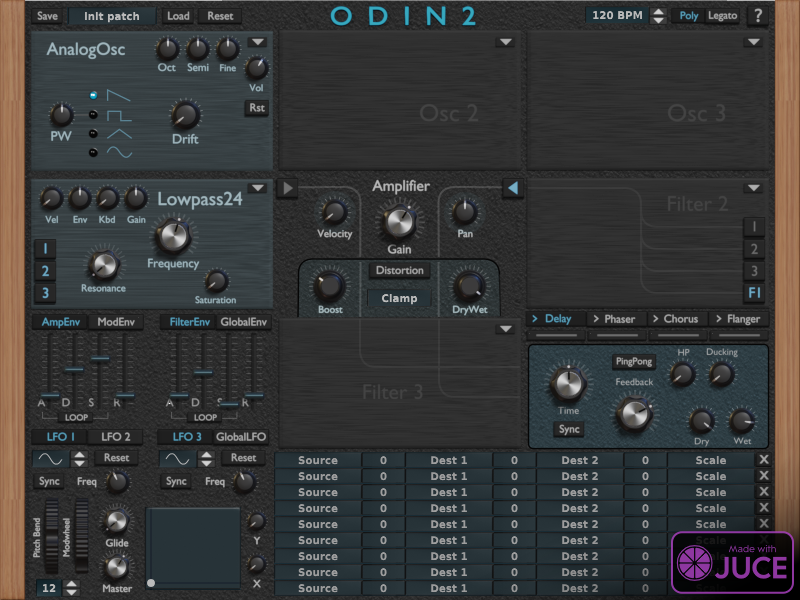
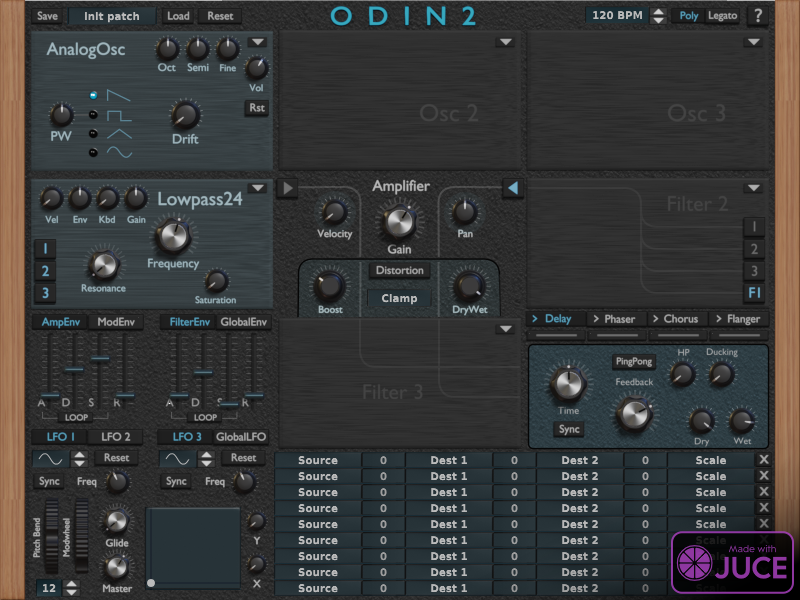
worked over some colors

diff --git a/Source/ModMatrixComponent.cpp b/Source/ModMatrixComponent.cpp
@@ -421,25 +421,18 @@ ModMatrixComponent::ModMatrixComponent(AudioProcessorValueTreeState &vts)
   m_amount_3[N_ROWS - 1].setImage(glas_small_down);
   m_scale[N_ROWS - 1].setImage(glas_right_down);
   juce::Colour modmatrix_color = STANDARD_DISPLAY_COLOR;
-  // juce::Colour modmatrix_color_bar(90, 150, 180);
 
   juce::Colour modmatrix_color_bar(60, 130, 160);
   juce::Colour modmatrix_color_bar_negative(230, 80, 110);
+  juce::Colour modmatrix_font_selected_color = Colour(126, 182, 206);
 
   m_color = modmatrix_color;
 
   for (int i = 0; i < N_ROWS; ++i) {
-    // m_amount_1[i].setParameterId("amount_1_row_" + std::to_string(i));
-    // m_amount_2[i].setParameterId("amount_2_row_" + std::to_string(i));
-    // m_amount_3[i].setParameterId("amount_3_row_" + std::to_string(i));
-    // m_value_tree.addParameterListener("amount_1_row_" + std::to_string(i),
-    //                                   &(m_amount_1[i]));
-    // m_value_tree.addParameterListener("amount_2_row_" + std::to_string(i),
-    //                                   &(m_amount_2[i]));
-    // m_value_tree.addParameterListener("amount_3_row_" + std::to_string(i),
-    //                                   &(m_amount_3[i]));
-    //DBG("POINTER TO COMPONENT");
-    //DBG((long)&(m_amount_2[i]));
+    m_source[i].setFontColor(modmatrix_font_selected_color);
+    m_dest_1[i].setFontColor(modmatrix_font_selected_color);
+    m_dest_2[i].setFontColor(modmatrix_font_selected_color);
+    m_scale[i].setFontColor(modmatrix_font_selected_color);
 
     m_source[i].setTooltip("Set the mod source");
     m_amount_1[i].setTooltip("Set the mod amount for the first destination");
@@ -463,6 +456,7 @@ ModMatrixComponent::ModMatrixComponent(AudioProcessorValueTreeState &vts)
     m_source[i].setSelectedId(1, dontSendNotification);
     m_source[i].setColor(modmatrix_color);
     m_source[i].setGreyFirstElement(true);
+    m_source[i].setGreyColor(juce::Colours::white);
     addAndMakeVisible(m_source[i]);
 
     m_amount_1[i].setColor(modmatrix_color);
@@ -479,6 +473,7 @@ ModMatrixComponent::ModMatrixComponent(AudioProcessorValueTreeState &vts)
     m_dest_1[i].setSelectedId(1, dontSendNotification);
     m_dest_1[i].setColor(modmatrix_color);
     m_dest_1[i].setGreyFirstElement(true);
+    m_dest_1[i].setGreyColor(juce::Colours::white);
     addAndMakeVisible(m_dest_1[i]);
 
     m_amount_2[i].setColor(modmatrix_color);
@@ -496,6 +491,7 @@ ModMatrixComponent::ModMatrixComponent(AudioProcessorValueTreeState &vts)
     m_dest_2[i].setSelectedId(1, dontSendNotification);
     m_dest_2[i].setColor(modmatrix_color);
     m_dest_2[i].setGreyFirstElement(true);
+    m_dest_2[i].setGreyColor(juce::Colours::white);
     addAndMakeVisible(m_dest_2[i]);
 
     m_amount_3[i].setColor(modmatrix_color);
@@ -509,6 +505,7 @@ ModMatrixComponent::ModMatrixComponent(AudioProcessorValueTreeState &vts)
     m_scale[i].setSelectedId(1, dontSendNotification);
     m_scale[i].setColor(modmatrix_color);
     m_scale[i].setGreyFirstElement(true);
+    m_scale[i].setGreyColor(juce::Colours::white);
     addAndMakeVisible(m_scale[i]);
   }
   m_amount_1[0].onValueChange = [&](float p_value) {

diff --git a/Source/OscComponent.cpp b/Source/OscComponent.cpp
@@ -129,31 +129,31 @@ OscComponent::OscComponent(OdinAudioProcessor &p_processor,
 	m_reset.setTriggeredOnMouseDown(true);
 	m_reset.setColour(juce::DrawableButton::ColourIds::backgroundOnColourId, juce::Colour());
 
-	m_reset.onClick = [&]() {
-		juce::Colour col = REMOVE_color_picker->getCurrentColour();
+	// m_reset.onClick = [&]() {
+	// 	juce::Colour col = REMOVE_color_picker->getCurrentColour();
 
-		m_xy.setColor(col);
-		m_vec_a.setColor(col);
-		m_vec_b.setColor(col);
-		m_vec_c.setColor(col);
-		m_vec_d.setColor(col);
+	// 	m_xy.setColor(col);
+	// 	m_vec_a.setColor(col);
+	// 	m_vec_b.setColor(col);
+	// 	m_vec_c.setColor(col);
+	// 	m_vec_d.setColor(col);
 
-		m_wavedraw.setColor(col);
+	// 	m_wavedraw.setColor(col);
 
-		m_wavetable_waveselector.setColor(col);
+	// 	m_wavetable_waveselector.setColor(col);
 
-		m_carrier_waveselector.setColor(col);
-		m_modulator_waveselector.setColor(col);
-		m_carrier_ratio.setColor(col);
-		m_modulator_ratio.setColor(col);
+	// 	m_carrier_waveselector.setColor(col);
+	// 	m_modulator_waveselector.setColor(col);
+	// 	m_carrier_ratio.setColor(col);
+	// 	m_modulator_ratio.setColor(col);
 
-		m_chiptune_waveselector.setColor(col);
-		m_chipdraw.setDrawColor(col);
+	// 	m_chiptune_waveselector.setColor(col);
+	// 	m_chipdraw.setDrawColor(col);
 
-		repaint();
-		DBG("(" + std::to_string((int)col.getRed()) + ", " + std::to_string((int)col.getGreen()) + ", " +
-		    std::to_string((int)col.getBlue()) + ")");
-	};
+	// 	repaint();
+	// 	DBG("(" + std::to_string((int)col.getRed()) + ", " + std::to_string((int)col.getGreen()) + ", " +
+	// 	    std::to_string((int)col.getBlue()) + ")");
+	// };
 
 #ifdef WTGEN
 	m_reset.onClick = [&]() {
@@ -1651,7 +1651,7 @@ void OscComponent::forceValueTreeOntoComponents(ValueTree p_tree, int p_index, b
 
 	// specdraw
 	for (int i = 0; i < SPECDRAW_STEPS_X; ++i) {
-		wavedraw_values[i] = (float)node[String("osc" + m_osc_number + "_specdraw_values_" + std::to_string(i))];
+		wavedraw_values[i] = (float)node[String("osc" + m_osc_number + "_fs_" + std::to_string(i))];
 	}
 	m_specdraw.setDrawnTable(wavedraw_values);
 	m_specdraw_convert.setToggleState(true, dontSendNotification);

diff --git a/Source/PluginEditor.cpp b/Source/PluginEditor.cpp
@@ -903,16 +903,16 @@ OdinAudioProcessorEditor::OdinAudioProcessorEditor(OdinAudioProcessor &p_process
 	SET_CTR_KEY(m_master);
 	SET_CTR_KEY(m_modwheel);
 
-	m_color_picker.setTopLeftPosition(ADSR_LEFT_POS_X, ADSR_LEFT_POS_Y);
-	m_color_picker.setSize(3 * ADSR_SIZE_X, 3 * ADSR_SIZE_Y);
+	//m_color_picker.setTopLeftPosition(ADSR_LEFT_POS_X, ADSR_LEFT_POS_Y);
+	//m_color_picker.setSize(3 * ADSR_SIZE_X, 3 * ADSR_SIZE_Y);
 
 	//addAndMakeVisible(m_color_picker);
-	m_color_picker.setAlwaysOnTop(true);
-	m_color_picker.setSwatchColour(1, juce::Colour(71, 92, 108));
+	//m_color_picker.setAlwaysOnTop(true);
+	//m_color_picker.setSwatchColour(1, juce::Colour(71, 92, 108));
 
-	m_osc1.setColorPickerPointer(&m_color_picker);
-	m_osc2.setColorPickerPointer(&m_color_picker);
-	m_osc3.setColorPickerPointer(&m_color_picker);
+	//m_osc1.setColorPickerPointer(&m_color_picker);
+	//m_osc2.setColorPickerPointer(&m_color_picker);
+	//m_osc3.setColorPickerPointer(&m_color_picker);
 
 #ifdef WTGEN
 	m_spectrum_display.setTopLeftPosition(800 - 512 - 2 * 6, 400 - 2 * 6);

diff --git a/Source/GlasDropdown.h b/Source/GlasDropdown.h
@@ -26,6 +26,8 @@ public:
   void resized() override {}//note without this function, screen text will be drawn double.... no idea..
   void setImage(juce::Image p_panel) { m_glaspanel = p_panel; }
   void setColor(juce::Colour p_color) { m_color = p_color; }
+  void setGreyColor(juce::Colour p_color) {m_grey_color = p_color;}
+  void setFontColor(juce::Colour p_color) {m_font_color = p_color;}
   void setGreyFirstElement(bool p_grey) { m_grey_first_element = p_grey; }
   void setInlay(int p_inlay) { m_inlay = p_inlay; }
   void setDefaultText(std::string p_text) { m_default_text = p_text; }
@@ -62,6 +64,8 @@ private:
 
   juce::Image m_glaspanel;
   juce::Colour m_color;
+  juce::Colour m_grey_color = juce::Colours::lightgrey;
+  juce::Colour m_font_color = juce::Colours::white;
   JUCE_DECLARE_NON_COPYABLE_WITH_LEAK_DETECTOR(GlasDropdown)
 
   OdinMenuFeels m_menu_feels;

diff --git a/Source/PluginProcessor.cpp b/Source/PluginProcessor.cpp
@@ -1334,7 +1334,8 @@ void OdinAudioProcessor::addNonAudioParametersToTree() {
 		float val = i == 0 ? 1 : 0;
 		node.setProperty(String("osc1_specdraw_values_" + std::to_string(i)), val, nullptr);
 		node.setProperty(String("osc2_specdraw_values_" + std::to_string(i)), val, nullptr);
-		node.setProperty(String("osc3_specdraw_values_" + std::to_string(i)), val, nullptr);
+//		node.setProperty(String("osc3_specdraw_values_" + std::to_string(i)), val, nullptr);
+		node.setProperty(String("osc3_specdraw_values_" + std::to_string(i)), 0.5f-i*0.005+cos(i*0.2f)*0.5f*(1.f-i*0.02), nullptr);
 	}
 
 	//DBG("IS VALID0: " + std::to_string((int)m_value_tree.state.getChildWithName("fx").isValid()));

diff --git a/Source/GlasDropdown.cpp b/Source/GlasDropdown.cpp
@@ -29,10 +29,10 @@ void GlasDropdown::paint(Graphics &g) {
   bottom_right.addXY(-m_inlay - 1, -m_inlay);
   g.fillRect(juce::Rectangle<int>(top_left, bottom_right)); //
 
-  g.setColour(Colours::white);
+  g.setColour(m_font_color);
 
   if (getSelectedId() == 0 && m_grey_first_element) {
-    g.setColour(Colours::lightgrey);
+    g.setColour(m_grey_color);
   }
 
   // g.setFont(bfont);Font current_font = g.getCurrentFont();

diff --git a/Source/XYPadComponent.cpp b/Source/XYPadComponent.cpp
@@ -29,7 +29,7 @@ void XYPadComponent::paint(Graphics &g) {
 	g.fillRect(juce::Rectangle<int>(top_left, bottom_right)); //
 
 	if (m_vector_pad) {
-		g.setColour(juce::Colours::grey);
+		g.setColour(juce::Colours::lightgrey);
 		g.setFont(12.0f);
 		g.drawText("A", VECTOR_LEFT, VECTOR_DOWN, 8, 15, Justification::topLeft);
 		g.drawText("B", VECTOR_LEFT, VECTOR_UP, 8, 15, Justification::topLeft);

diff --git a/Source/PluginEditor.h b/Source/PluginEditor.h
@@ -211,7 +211,7 @@ public:
   InputFeels m_input_feels;
 
 
-  ColourSelector m_color_picker;
+  //ColourSelector m_color_picker;
 
 #ifdef WTGEN
   WavetableDisplay m_wavetable_display;
